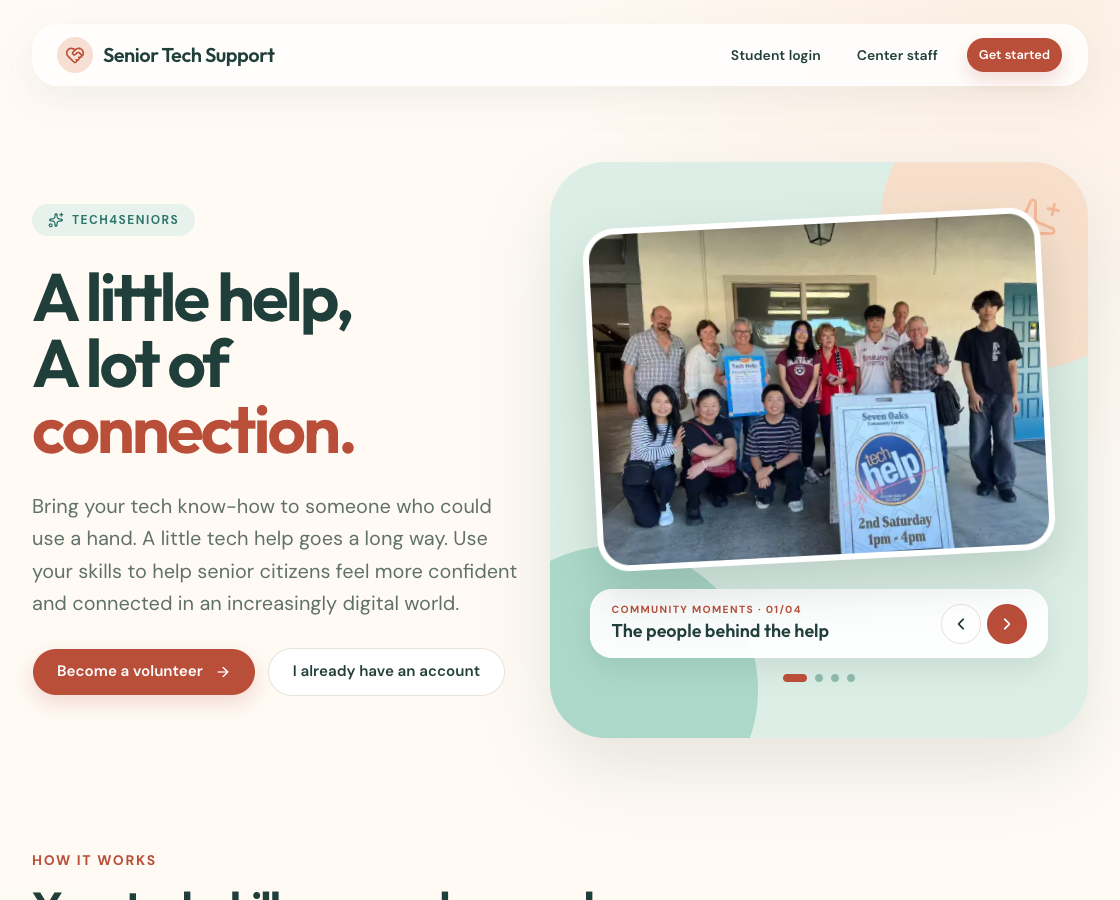
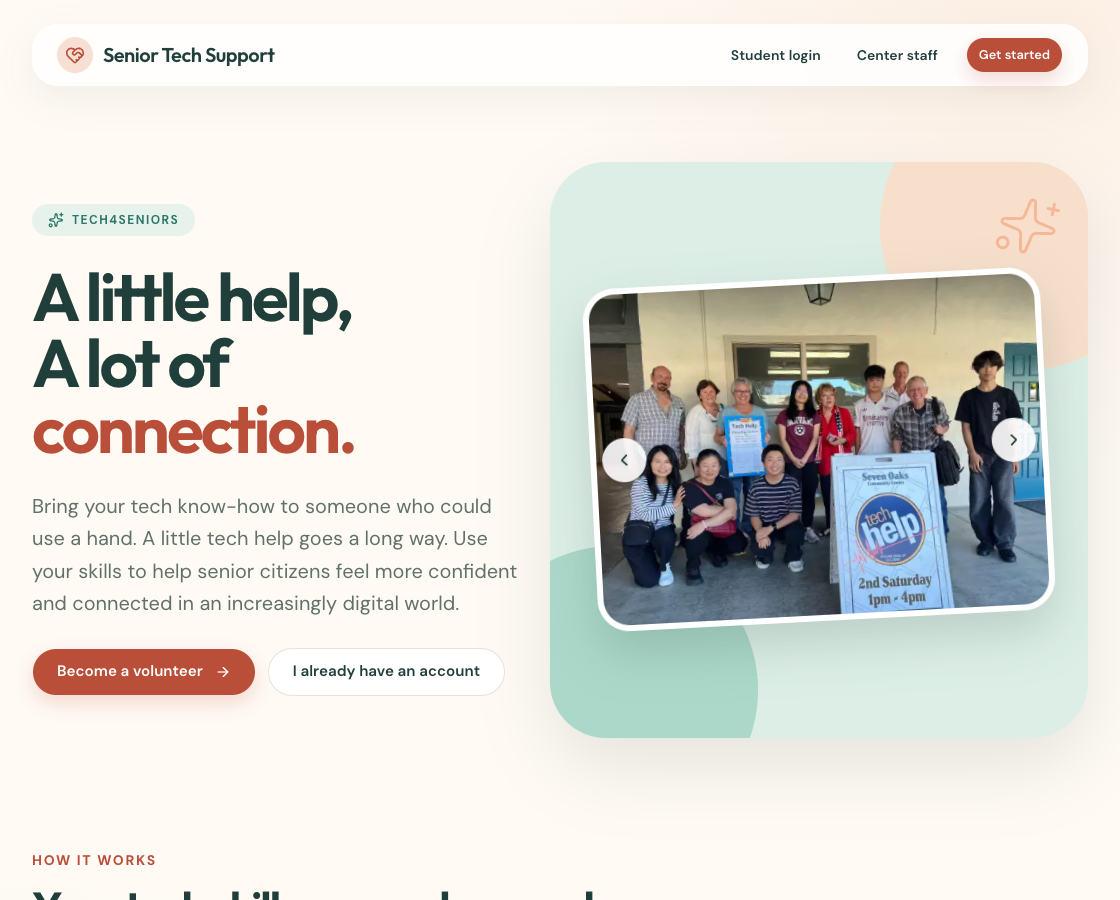
Updated website design

Changed region(s): [[0.5, 0.2178, 0.9688, 0.7778]]

diff --git a/src/app/(frontend)/components/HeroGallery.tsx b/src/app/(frontend)/components/HeroGallery.tsx
@@ -1,7 +1,7 @@
 'use client'
 
 import Image from 'next/image'
-import { ChevronLeft, ChevronRight } from 'lucide-react'
+import { ArrowLeft, ArrowRight } from 'lucide-react'
 import { useState } from 'react'
 
 import communityFeedback from '@/assets/gallery/community-feedback.webp'
@@ -13,25 +13,21 @@ const photos = [
   {
     src: communityTeam,
     alt: 'Students, older adults, and community members together outside Seven Oaks Community Center',
-    caption: 'The people behind the help',
     position: 'center center',
   },
   {
     src: helpSession,
     alt: 'Students and older adults working together at tables during a community tech help session',
-    caption: 'Learning side by side',
     position: 'center center',
   },
   {
     src: techHelpSign,
     alt: 'A Tech Help sign inviting neighbors to sign up at Seven Oaks Center',
-    caption: 'A warm welcome starts here',
     position: 'center center',
   },
   {
     src: communityFeedback,
     alt: 'Paper feedback forms completed after tech help sessions',
-    caption: 'Every voice helps us grow',
     position: 'center 58%',
   },
 ] as const
@@ -69,73 +65,65 @@ export function HeroGallery() {
 
   return (
     <div
-      className="relative z-10 w-full max-w-[29rem]"
+      className="relative z-10 w-full max-w-[30rem]"
+      role="region"
+      aria-roledescription="carousel"
       aria-label="Community photo gallery"
     >
-      <div
-        id="hero-gallery-stage"
-        className="gallery-stage aspect-[4/3] w-full rotate-[-3deg]"
-      >
-        <div className="gallery-card" data-flipped={flipped}>
-          <div aria-hidden={flipped} className="gallery-side">
-            <PhotoFace photo={photos[frontIndex]} />
-          </div>
+      <div className="relative">
+        <div
+          className="pointer-events-none absolute inset-1 rotate-[3deg] translate-x-2 translate-y-3 rounded-[2rem] border border-[#e9ccbb] bg-[#f8e7dc] shadow-[0_12px_30px_rgb(79_75_54_/_8%)]"
+          aria-hidden="true"
+        />
+        <div className="relative rotate-[-2deg] rounded-[1.9rem] bg-white p-[7px] shadow-[0_24px_55px_rgb(28_66_55_/_20%)]">
           <div
-            aria-hidden={!flipped}
-            className="gallery-side gallery-side-back"
+            id="hero-gallery-stage"
+            className="gallery-stage relative aspect-[4/3] w-full overflow-hidden rounded-[1.5rem] bg-[#d3dfd5]"
           >
-            <PhotoFace photo={photos[backIndex]} />
+            <div className="gallery-card" data-flipped={flipped}>
+              <div aria-hidden={flipped} className="gallery-side">
+                <PhotoFace photo={photos[frontIndex]} />
+              </div>
+              <div
+                aria-hidden={!flipped}
+                className="gallery-side gallery-side-back"
+              >
+                <PhotoFace photo={photos[backIndex]} />
+              </div>
+            </div>
           </div>
         </div>
       </div>
-
-      <div className="mt-7 flex items-center justify-between gap-3 rounded-[1.4rem] border border-white bg-white/95 px-4 py-3 shadow-[0_12px_28px_rgb(33_63_58_/_10%)] sm:px-5">
-        <div className="min-w-0" aria-live="polite" aria-atomic="true">
-          <p className="text-[0.65rem] font-bold tracking-[0.13em] text-primary uppercase">
-            Community moments · {String(activeIndex + 1).padStart(2, '0')}/04
-          </p>
-          <p className="truncate font-heading text-base font-semibold text-foreground sm:text-lg">
-            {photos[activeIndex].caption}
-          </p>
+      <div className="relative mt-8 flex items-center justify-between px-1 sm:px-2">
+        <button
+          type="button"
+          aria-label="Previous photo"
+          aria-controls="hero-gallery-stage"
+          onClick={() =>
+            showPhoto((activeIndex - 1 + photos.length) % photos.length)
+          }
+          className="grid h-11 w-14 place-items-center rounded-[1rem] border border-[#bdd3c5] bg-[#fffdf8] text-[#245449] shadow-[0_6px_16px_rgb(38_78_61_/_8%)] transition-all hover:-translate-x-0.5 hover:border-[#245449] focus-visible:outline-2 focus-visible:outline-offset-2 focus-visible:outline-ring"
+        >
+          <ArrowLeft className="size-5" strokeWidth={1.8} aria-hidden="true" />
+        </button>
+        <div className="flex items-center gap-2 font-heading text-sm font-semibold tracking-[0.12em] text-[#245449]" aria-hidden="true">
+          <span>{String(activeIndex + 1).padStart(2, '0')}</span>
+          <span className="h-px w-6 bg-[#8fb3a0]" />
+          <span className="text-[#7b9c8b]">{String(photos.length).padStart(2, '0')}</span>
         </div>
-        <div className="flex shrink-0 items-center gap-1.5">
-          <button
-            type="button"
-            aria-label="Previous photo"
-            aria-controls="hero-gallery-stage"
-            onClick={() =>
-              showPhoto((activeIndex - 1 + photos.length) % photos.length)
-            }
-            className="grid size-9 place-items-center rounded-full border border-border bg-card text-foreground transition-colors hover:bg-secondary focus-visible:outline-2 focus-visible:outline-offset-2 focus-visible:outline-ring sm:size-10"
-          >
-            <ChevronLeft className="size-5" aria-hidden="true" />
-          </button>
-          <button
-            type="button"
-            aria-label="Next photo"
-            aria-controls="hero-gallery-stage"
-            onClick={() => showPhoto((activeIndex + 1) % photos.length)}
-            className="grid size-9 place-items-center rounded-full bg-primary text-primary-foreground transition-colors hover:bg-primary/90 focus-visible:outline-2 focus-visible:outline-offset-2 focus-visible:outline-ring sm:size-10"
-          >
-            <ChevronRight className="size-5" aria-hidden="true" />
-          </button>
-        </div>
+        <button
+          type="button"
+          aria-label="Next photo"
+          aria-controls="hero-gallery-stage"
+          onClick={() => showPhoto((activeIndex + 1) % photos.length)}
+          className="grid h-11 w-14 place-items-center rounded-[1rem] bg-[#245449] text-white shadow-[0_8px_18px_rgb(28_66_55_/_18%)] transition-all hover:translate-x-0.5 hover:bg-[#19463c] focus-visible:outline-2 focus-visible:outline-offset-2 focus-visible:outline-ring"
+        >
+          <ArrowRight className="size-5" strokeWidth={1.8} aria-hidden="true" />
+        </button>
       </div>
-      <div
-        className="mt-4 flex justify-center gap-2"
-        aria-label="Choose a gallery photo"
-      >
-        {photos.map((photo, index) => (
-          <button
-            key={photo.caption}
-            type="button"
-            aria-label={`Show photo ${index + 1}: ${photo.caption}`}
-            aria-pressed={activeIndex === index}
-            onClick={() => showPhoto(index)}
-            className={`h-2 rounded-full transition-all focus-visible:outline-2 focus-visible:outline-offset-2 focus-visible:outline-ring ${activeIndex === index ? 'w-6 bg-primary' : 'w-2 bg-[#8db9aa] hover:bg-[#4c8d7e]'}`}
-          />
-        ))}
-      </div>
+      <span className="sr-only" aria-live="polite">
+        Photo {activeIndex + 1} of {photos.length}
+      </span>
     </div>
   )
 }

diff --git a/src/app/(frontend)/(student)/page.tsx b/src/app/(frontend)/(student)/page.tsx
@@ -61,10 +61,9 @@ export default async function HomePage() {
             )}
           </div>
         </div>
-        <div className="relative isolate mx-auto grid min-h-[31rem] w-full max-w-[39rem] place-items-center overflow-hidden rounded-[2.6rem] bg-[#dceee5] p-7 shadow-[0_30px_70px_rgb(49_72_61_/_12%)] sm:min-h-[36rem] sm:rounded-[3.5rem] sm:p-10 lg:ml-auto">
-          <div className="absolute -right-20 -top-20 size-72 rounded-full bg-[#f7dfcb]" aria-hidden="true" />
-          <div className="absolute -bottom-24 -left-20 size-72 rounded-full bg-[#abd8c8]" aria-hidden="true" />
-          <div className="absolute right-7 top-8 rotate-12 text-[#f5b897]" aria-hidden="true"><Sparkles className="size-16" strokeWidth={1.1} /></div>
+        <div className="relative isolate mx-auto grid w-full max-w-[39rem] place-items-center overflow-hidden rounded-[2.6rem] border border-[#dbe7dc] bg-[linear-gradient(145deg,#edf4ed_0%,#e4eee7_62%,#f3e9df_100%)] px-7 py-12 shadow-[0_30px_70px_rgb(49_72_61_/_10%)] sm:min-h-[35rem] sm:rounded-[3.5rem] sm:px-10 sm:py-14 lg:ml-auto">
+          <div className="pointer-events-none absolute -left-32 -top-32 size-80 rounded-full border-[3.5rem] border-white/35" aria-hidden="true" />
+          <div className="pointer-events-none absolute -bottom-32 -right-24 size-72 rounded-full bg-[#f5ded0]/55 blur-2xl" aria-hidden="true" />
           <HeroGallery />
         </div>
       </section>

diff --git a/src/app/globals.css b/src/app/globals.css
@@ -185,10 +185,8 @@
   position: absolute;
   inset: 0;
   overflow: hidden;
-  border: 6px solid white;
-  border-radius: 2rem;
-  background: white;
-  box-shadow: 0 22px 48px rgb(33 63 58 / 18%);
+  border-radius: 1.5rem;
+  background: #d3dfd5;
   backface-visibility: hidden;
   -webkit-backface-visibility: hidden;
 }
